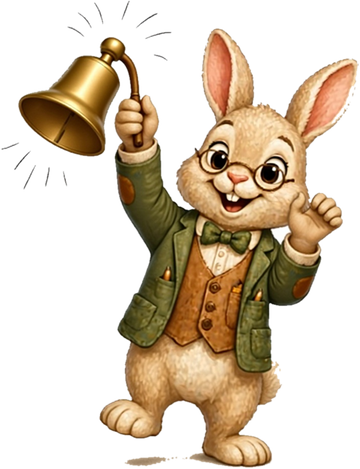
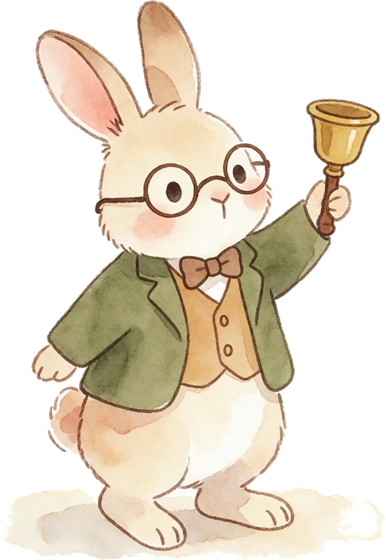
Redraw the edge characters in one watercolour style
The fourteen edge illustrations came from mixed sources and did not read as
one cast: two different turkeys, three different storks, a different fur
treatment on the bear in every scene. All fourteen are regenerated through
Artistly in the approved storybook watercolour style, from the Kaf Dağı Köyü
character canon (the bear's blue evil-eye medallion and goggles, the stork's
brimmed straw hat and blue-strapped khaki apron, the hen's coral apron, the
beaver's layered dungarees and tool belt).

Backgrounds are stripped with the conservative edge-connected flood fill only.
A looser brightness threshold was tried to also remove the ground-shadow wash
and had to be abandoned: the cream rabbit, the white stork and the speckled
hen sit at the same brightness as the paper, and their bodies came back full
of holes. The faint shadow that stays attached to the feet is invisible at the
124px the page renders them at.

The --k size multipliers are recomputed from the new ink areas, over the
fourteen in use — the unused leftovers still in the repo would skew the median.
Verified at 1366 and 1920: no text collision, no horizontal overflow.

Claude-Session: https://claude.ai/code/session_01MGLSLrmtckx3JqW12WLXoG

diff --git a/eski-tasarim.html b/eski-tasarim.html
@@ -11,7 +11,7 @@
     <link href="https://fonts.googleapis.com/css2?family=Nunito:wght@400;600;700;800;900&family=Baloo+2:wght@400;500;600;700;800&display=swap" rel="stylesheet">
     <link href="https://fonts.cdnfonts.com/css/scrambled-tofu" rel="stylesheet">
     <link rel="stylesheet" href="https://cdnjs.cloudflare.com/ajax/libs/font-awesome/6.5.1/css/all.min.css">
-    <link rel="stylesheet" href="eski-tasarim.css?v=82">
+    <link rel="stylesheet" href="eski-tasarim.css?v=83">
 </head>
 <body>
 
@@ -295,8 +295,8 @@
 </section>
 
 <section id="ozellikler">
-    <img src="kahraman-ayi-kova.png?v=1" alt="" aria-hidden="true" class="kahraman kahraman-sag kahraman-y" style="--ky: 13" loading="lazy">
-    <img src="kahraman-hindi.png?v=1" data-giris="zipla" alt="" aria-hidden="true" class="kahraman kahraman-sol" loading="lazy">
+    <img src="kahraman-ayi-kova.png?v=2" alt="" aria-hidden="true" class="kahraman kahraman-sag kahraman-y" style="--ky: 13" loading="lazy">
+    <img src="kahraman-hindi.png?v=2" data-giris="zipla" alt="" aria-hidden="true" class="kahraman kahraman-sol" loading="lazy">
     <div class="container">
         <h2 class="section-title fade-in">Özellikler</h2>
         <p class="section-subtitle fade-in">Türkiye'nin ilk ve tek tam yapılandırılmış İlk Okuma-Yazma Öğretimine hoş geldin! Kelime oyunlarını seviyorsan, öğrenirken gelişmek ve ömür boyu kullanacağın bilişsel yetenekler kazanmak istiyorsan doğru yerdesin! İşte seni bekleyen harika özellikler.</p>
@@ -352,8 +352,8 @@
 
 <!-- GAMES -->
 <section id="oyunlar">
-    <img src="kahraman-sepet-dersi.png?v=1" alt="" aria-hidden="true" class="kahraman kahraman-sag kahraman-y" style="--ky: 33" loading="lazy">
-    <img src="kahraman-tavsan-zil.png?v=1" data-giris="zipla" alt="" aria-hidden="true" class="kahraman kahraman-sol kahraman-y" style="--ky: 72" loading="lazy">
+    <img src="kahraman-sepet-dersi.png?v=2" alt="" aria-hidden="true" class="kahraman kahraman-sag kahraman-y" style="--ky: 33" loading="lazy">
+    <img src="kahraman-tavsan-zil.png?v=2" data-giris="zipla" alt="" aria-hidden="true" class="kahraman kahraman-sol kahraman-y" style="--ky: 72" loading="lazy">
     <div class="container">
         <h2 class="section-title fade-in">Oyunlarımız</h2>
         <p class="section-subtitle fade-in">Platformumuzda seni bekleyen birbirinden eğlenceli kelime oyunlarını keşfet!</p>
@@ -490,8 +490,8 @@
 
 <!-- HOW TO PLAY -->
 <section id="nasil-oynanir">
-    <img src="kahraman-ayi-semsiye.png?v=1" data-giris="zipla" alt="" aria-hidden="true" class="kahraman kahraman-sag kahraman-y" style="--ky: 20" loading="lazy">
-    <img src="kahraman-kunduz-rende.png?v=1" alt="" aria-hidden="true" class="kahraman kahraman-sol" loading="lazy">
+    <img src="kahraman-ayi-semsiye.png?v=2" data-giris="zipla" alt="" aria-hidden="true" class="kahraman kahraman-sag kahraman-y" style="--ky: 20" loading="lazy">
+    <img src="kahraman-kunduz-rende.png?v=2" alt="" aria-hidden="true" class="kahraman kahraman-sol" loading="lazy">
     <div class="container">
         <h2 class="section-title fade-in">Sistem Nasıl Çalışır?</h2>
         <p class="section-subtitle fade-in">Dört kolay adımda eğlenceye katıl!</p>
@@ -637,7 +637,7 @@
 
 <!-- TESTIMONIALS -->
 <section id="yorumlar">
-    <img src="kahraman-leylek-tezgah.png?v=1" data-giris="zipla" alt="" aria-hidden="true" class="kahraman kahraman-sag kahraman-y" style="--ky: 63" loading="lazy">
+    <img src="kahraman-leylek-tezgah.png?v=2" data-giris="zipla" alt="" aria-hidden="true" class="kahraman kahraman-sag kahraman-y" style="--ky: 63" loading="lazy">
     <div class="container">
         <h2 class="section-title fade-in">Kullanıcılarımız Ne Diyor?</h2>
         <p class="section-subtitle fade-in">Milyonlarca mutlu kullanıcıdan bazıları...</p>
@@ -718,9 +718,9 @@
 
 <!-- SUNUM / PRESENTATION -->
 <section id="sunum">
-    <img src="kahraman-hindi-isaret.png?v=1" alt="" aria-hidden="true" class="kahraman kahraman-sol kahraman-y" style="--ky: 6" loading="lazy">
-    <img src="kahraman-ayi-sal.png?v=1" data-giris="zipla" alt="" aria-hidden="true" class="kahraman kahraman-sag kahraman-y" style="--ky: 40" loading="lazy">
-    <img src="kahraman-tavuk-sepet.png?v=1" data-giris="zipla" alt="" aria-hidden="true" class="kahraman kahraman-sol kahraman-y" style="--ky: 74" loading="lazy">
+    <img src="kahraman-hindi-isaret.png?v=2" alt="" aria-hidden="true" class="kahraman kahraman-sol kahraman-y" style="--ky: 6" loading="lazy">
+    <img src="kahraman-ayi-sal.png?v=2" data-giris="zipla" alt="" aria-hidden="true" class="kahraman kahraman-sag kahraman-y" style="--ky: 40" loading="lazy">
+    <img src="kahraman-tavuk-sepet.png?v=2" data-giris="zipla" alt="" aria-hidden="true" class="kahraman kahraman-sol kahraman-y" style="--ky: 74" loading="lazy">
     <div class="container">
         <h2 class="section-title fade-in">Arkadaşım Kelimeler</h2>
         <p class="section-subtitle fade-in">Yapay Zeka ve Nörobilim ile İlk Okuma Yazmayı Yeniden Tanımlıyoruz</p>
@@ -887,9 +887,9 @@
 
 <!-- ACADEMIC -->
 <section id="akademik">
-    <img src="kahraman-leylek-ayi.png?v=1" alt="" aria-hidden="true" class="kahraman kahraman-sag kahraman-y" style="--ky: 8" loading="lazy">
-    <img src="kahraman-baykus-kitap.png?v=1" data-giris="zipla" alt="" aria-hidden="true" class="kahraman kahraman-sol kahraman-y" style="--ky: 41" loading="lazy">
-    <img src="kahraman-leylek-sepet.png?v=1" data-giris="zipla" alt="" aria-hidden="true" class="kahraman kahraman-sag kahraman-y" style="--ky: 75" loading="lazy">
+    <img src="kahraman-leylek-ayi.png?v=2" alt="" aria-hidden="true" class="kahraman kahraman-sag kahraman-y" style="--ky: 8" loading="lazy">
+    <img src="kahraman-baykus-kitap.png?v=2" data-giris="zipla" alt="" aria-hidden="true" class="kahraman kahraman-sol kahraman-y" style="--ky: 41" loading="lazy">
+    <img src="kahraman-leylek-sepet.png?v=2" data-giris="zipla" alt="" aria-hidden="true" class="kahraman kahraman-sag kahraman-y" style="--ky: 75" loading="lazy">
     <div class="container">
         <h2 class="section-title fade-in">Bilimsel Temel</h2>
         <p class="section-subtitle fade-in">İlk Okuma Yazma: Bir Çocuğun Eğitim Hayatındaki En Kritik Eşik</p>
@@ -1161,7 +1161,7 @@
 
 <!-- CTA -->
 <section id="indir">
-    <img src="kahraman-kunduz-sepet.png?v=1" alt="" aria-hidden="true" class="kahraman kahraman-sol" loading="lazy">
+    <img src="kahraman-kunduz-sepet.png?v=2" alt="" aria-hidden="true" class="kahraman kahraman-sol" loading="lazy">
     <div class="container fade-in">
         <h2 class="brand-name">Hemen İndir, Eğlenceye Katıl!</h2>
         <p>Milyonlarca oyuncunun arasına katıl ve kelimelerin büyülü dünyasını keşfet. Ücretsiz!</p>

diff --git a/index.html b/index.html
@@ -11,7 +11,7 @@
     <link href="https://fonts.googleapis.com/css2?family=Nunito:wght@400;600;700;800;900&family=Baloo+2:wght@400;500;600;700;800&display=swap" rel="stylesheet">
     <link href="https://fonts.cdnfonts.com/css/scrambled-tofu" rel="stylesheet">
     <link rel="stylesheet" href="https://cdnjs.cloudflare.com/ajax/libs/font-awesome/6.5.1/css/all.min.css">
-    <link rel="stylesheet" href="style.css?v=89">
+    <link rel="stylesheet" href="style.css?v=90">
 </head>
 <body>
 
@@ -295,8 +295,8 @@
 </section>
 
 <section id="ozellikler">
-    <img src="kahraman-ayi-kova.png?v=1" alt="" aria-hidden="true" class="kahraman kahraman-sag kahraman-y" style="--ky: 13" loading="lazy">
-    <img src="kahraman-hindi.png?v=1" data-giris="zipla" alt="" aria-hidden="true" class="kahraman kahraman-sol" loading="lazy">
+    <img src="kahraman-ayi-kova.png?v=2" alt="" aria-hidden="true" class="kahraman kahraman-sag kahraman-y" style="--ky: 13" loading="lazy">
+    <img src="kahraman-hindi.png?v=2" data-giris="zipla" alt="" aria-hidden="true" class="kahraman kahraman-sol" loading="lazy">
     <div class="container">
         <h2 class="section-title fade-in">Özellikler</h2>
         <p class="section-subtitle fade-in">Türkiye'nin ilk ve tek tam yapılandırılmış İlk Okuma-Yazma Öğretimine hoş geldin! Kelime oyunlarını seviyorsan, öğrenirken gelişmek ve ömür boyu kullanacağın bilişsel yetenekler kazanmak istiyorsan doğru yerdesin! İşte seni bekleyen harika özellikler.</p>
@@ -352,8 +352,8 @@
 
 <!-- GAMES -->
 <section id="oyunlar">
-    <img src="kahraman-sepet-dersi.png?v=1" alt="" aria-hidden="true" class="kahraman kahraman-sag kahraman-y" style="--ky: 33" loading="lazy">
-    <img src="kahraman-tavsan-zil.png?v=1" data-giris="zipla" alt="" aria-hidden="true" class="kahraman kahraman-sol kahraman-y" style="--ky: 72" loading="lazy">
+    <img src="kahraman-sepet-dersi.png?v=2" alt="" aria-hidden="true" class="kahraman kahraman-sag kahraman-y" style="--ky: 33" loading="lazy">
+    <img src="kahraman-tavsan-zil.png?v=2" data-giris="zipla" alt="" aria-hidden="true" class="kahraman kahraman-sol kahraman-y" style="--ky: 72" loading="lazy">
     <div class="container">
         <h2 class="section-title fade-in">Oyunlarımız</h2>
         <p class="section-subtitle fade-in">Platformumuzda seni bekleyen birbirinden eğlenceli kelime oyunlarını keşfet!</p>
@@ -490,8 +490,8 @@
 
 <!-- HOW TO PLAY -->
 <section id="nasil-oynanir">
-    <img src="kahraman-ayi-semsiye.png?v=1" data-giris="zipla" alt="" aria-hidden="true" class="kahraman kahraman-sag kahraman-y" style="--ky: 20" loading="lazy">
-    <img src="kahraman-kunduz-rende.png?v=1" alt="" aria-hidden="true" class="kahraman kahraman-sol" loading="lazy">
+    <img src="kahraman-ayi-semsiye.png?v=2" data-giris="zipla" alt="" aria-hidden="true" class="kahraman kahraman-sag kahraman-y" style="--ky: 20" loading="lazy">
+    <img src="kahraman-kunduz-rende.png?v=2" alt="" aria-hidden="true" class="kahraman kahraman-sol" loading="lazy">
     <div class="container">
         <h2 class="section-title fade-in">Sistem Nasıl Çalışır?</h2>
         <p class="section-subtitle fade-in">Dört kolay adımda eğlenceye katıl!</p>
@@ -637,7 +637,7 @@
 
 <!-- TESTIMONIALS -->
 <section id="yorumlar">
-    <img src="kahraman-leylek-tezgah.png?v=1" data-giris="zipla" alt="" aria-hidden="true" class="kahraman kahraman-sag kahraman-y" style="--ky: 63" loading="lazy">
+    <img src="kahraman-leylek-tezgah.png?v=2" data-giris="zipla" alt="" aria-hidden="true" class="kahraman kahraman-sag kahraman-y" style="--ky: 63" loading="lazy">
     <div class="container">
         <h2 class="section-title fade-in">Kullanıcılarımız Ne Diyor?</h2>
         <p class="section-subtitle fade-in">Milyonlarca mutlu kullanıcıdan bazıları...</p>
@@ -718,9 +718,9 @@
 
 <!-- SUNUM / PRESENTATION -->
 <section id="sunum">
-    <img src="kahraman-hindi-isaret.png?v=1" alt="" aria-hidden="true" class="kahraman kahraman-sol kahraman-y" style="--ky: 6" loading="lazy">
-    <img src="kahraman-ayi-sal.png?v=1" data-giris="zipla" alt="" aria-hidden="true" class="kahraman kahraman-sag kahraman-y" style="--ky: 40" loading="lazy">
-    <img src="kahraman-tavuk-sepet.png?v=1" data-giris="zipla" alt="" aria-hidden="true" class="kahraman kahraman-sol kahraman-y" style="--ky: 74" loading="lazy">
+    <img src="kahraman-hindi-isaret.png?v=2" alt="" aria-hidden="true" class="kahraman kahraman-sol kahraman-y" style="--ky: 6" loading="lazy">
+    <img src="kahraman-ayi-sal.png?v=2" data-giris="zipla" alt="" aria-hidden="true" class="kahraman kahraman-sag kahraman-y" style="--ky: 40" loading="lazy">
+    <img src="kahraman-tavuk-sepet.png?v=2" data-giris="zipla" alt="" aria-hidden="true" class="kahraman kahraman-sol kahraman-y" style="--ky: 74" loading="lazy">
     <div class="container">
         <h2 class="section-title fade-in">Arkadaşım Kelimeler</h2>
         <p class="section-subtitle fade-in">Yapay Zeka ve Nörobilim ile İlk Okuma Yazmayı Yeniden Tanımlıyoruz</p>
@@ -887,9 +887,9 @@
 
 <!-- ACADEMIC -->
 <section id="akademik">
-    <img src="kahraman-leylek-ayi.png?v=1" alt="" aria-hidden="true" class="kahraman kahraman-sag kahraman-y" style="--ky: 8" loading="lazy">
-    <img src="kahraman-baykus-kitap.png?v=1" data-giris="zipla" alt="" aria-hidden="true" class="kahraman kahraman-sol kahraman-y" style="--ky: 41" loading="lazy">
-    <img src="kahraman-leylek-sepet.png?v=1" data-giris="zipla" alt="" aria-hidden="true" class="kahraman kahraman-sag kahraman-y" style="--ky: 75" loading="lazy">
+    <img src="kahraman-leylek-ayi.png?v=2" alt="" aria-hidden="true" class="kahraman kahraman-sag kahraman-y" style="--ky: 8" loading="lazy">
+    <img src="kahraman-baykus-kitap.png?v=2" data-giris="zipla" alt="" aria-hidden="true" class="kahraman kahraman-sol kahraman-y" style="--ky: 41" loading="lazy">
+    <img src="kahraman-leylek-sepet.png?v=2" data-giris="zipla" alt="" aria-hidden="true" class="kahraman kahraman-sag kahraman-y" style="--ky: 75" loading="lazy">
     <div class="container">
         <h2 class="section-title fade-in">Bilimsel Temel</h2>
         <p class="section-subtitle fade-in">İlk Okuma Yazma: Bir Çocuğun Eğitim Hayatındaki En Kritik Eşik</p>
@@ -1161,7 +1161,7 @@
 
 <!-- CTA -->
 <section id="indir">
-    <img src="kahraman-kunduz-sepet.png?v=1" alt="" aria-hidden="true" class="kahraman kahraman-sol" loading="lazy">
+    <img src="kahraman-kunduz-sepet.png?v=2" alt="" aria-hidden="true" class="kahraman kahraman-sol" loading="lazy">
     <div class="container fade-in">
         <h2 class="brand-name">Hemen İndir, Eğlenceye Katıl!</h2>
         <p>Milyonlarca oyuncunun arasına katıl ve kelimelerin büyülü dünyasını keşfet. Ücretsiz!</p>

diff --git a/eski-tasarim.css b/eski-tasarim.css
@@ -2134,20 +2134,20 @@ section > .container,
    character carries a multiplier that evens out its *inked* area: the count
    of non-transparent pixels, scaled to the median. Measured per file, not
    eyeballed. */
-.kahraman[src*="kahraman-leylek-ayi.png"]        { --k: 1.23; }
+.kahraman[src*="kahraman-leylek-ayi.png"]        { --k: 1.05; }
 .kahraman[src*="kahraman-hindi-isaret"]          { --k: 1.08; }
-.kahraman[src*="kahraman-sepet-dersi"]           { --k: 1.07; }
+.kahraman[src*="kahraman-sepet-dersi"]           { --k: 1.09; }
 .kahraman[src*="kahraman-kunduz-rende"]          { --k: 1.05; }
-.kahraman[src*="kahraman-tavuk-sepet"]           { --k: 1.02; }
-.kahraman[src*="kahraman-tavsan-zil"]            { --k: 1.01; }
-.kahraman[src*="kahraman-ayi-sal"]               { --k: 1.00; }
-.kahraman[src*="kahraman-kunduz-sepet"]          { --k: 0.95; }
-.kahraman[src*="kahraman-ayi-kova"]              { --k: 0.94; }
-.kahraman[src*="kahraman-ayi-semsiye"]           { --k: 0.89; }
-.kahraman[src*="kahraman-leylek-sepet"]          { --k: 0.88; }
-.kahraman[src*="kahraman-hindi.png"]             { --k: 0.87; }
-.kahraman[src*="kahraman-leylek-tezgah"]         { --k: 0.81; }
-.kahraman[src*="kahraman-baykus-kitap"]          { --k: 0.80; }
+.kahraman[src*="kahraman-tavuk-sepet"]           { --k: 0.98; }
+.kahraman[src*="kahraman-tavsan-zil"]            { --k: 0.83; }
+.kahraman[src*="kahraman-ayi-sal"]               { --k: 1.17; }
+.kahraman[src*="kahraman-kunduz-sepet"]          { --k: 1.04; }
+.kahraman[src*="kahraman-ayi-kova"]              { --k: 0.86; }
+.kahraman[src*="kahraman-ayi-semsiye"]           { --k: 1.02; }
+.kahraman[src*="kahraman-leylek-sepet"]          { --k: 0.77; }
+.kahraman[src*="kahraman-hindi.png"]             { --k: 0.85; }
+.kahraman[src*="kahraman-leylek-tezgah"]         { --k: 0.86; }
+.kahraman[src*="kahraman-baykus-kitap"]          { --k: 0.79; }
 
 
 

diff --git a/style.css b/style.css
@@ -2134,20 +2134,20 @@ section > .container,
    character carries a multiplier that evens out its *inked* area: the count
    of non-transparent pixels, scaled to the median. Measured per file, not
    eyeballed. */
-.kahraman[src*="kahraman-leylek-ayi.png"]        { --k: 1.23; }
+.kahraman[src*="kahraman-leylek-ayi.png"]        { --k: 1.05; }
 .kahraman[src*="kahraman-hindi-isaret"]          { --k: 1.08; }
-.kahraman[src*="kahraman-sepet-dersi"]           { --k: 1.07; }
+.kahraman[src*="kahraman-sepet-dersi"]           { --k: 1.09; }
 .kahraman[src*="kahraman-kunduz-rende"]          { --k: 1.05; }
-.kahraman[src*="kahraman-tavuk-sepet"]           { --k: 1.02; }
-.kahraman[src*="kahraman-tavsan-zil"]            { --k: 1.01; }
-.kahraman[src*="kahraman-ayi-sal"]               { --k: 1.00; }
-.kahraman[src*="kahraman-kunduz-sepet"]          { --k: 0.95; }
-.kahraman[src*="kahraman-ayi-kova"]              { --k: 0.94; }
-.kahraman[src*="kahraman-ayi-semsiye"]           { --k: 0.89; }
-.kahraman[src*="kahraman-leylek-sepet"]          { --k: 0.88; }
-.kahraman[src*="kahraman-hindi.png"]             { --k: 0.87; }
-.kahraman[src*="kahraman-leylek-tezgah"]         { --k: 0.81; }
-.kahraman[src*="kahraman-baykus-kitap"]          { --k: 0.80; }
+.kahraman[src*="kahraman-tavuk-sepet"]           { --k: 0.98; }
+.kahraman[src*="kahraman-tavsan-zil"]            { --k: 0.83; }
+.kahraman[src*="kahraman-ayi-sal"]               { --k: 1.17; }
+.kahraman[src*="kahraman-kunduz-sepet"]          { --k: 1.04; }
+.kahraman[src*="kahraman-ayi-kova"]              { --k: 0.86; }
+.kahraman[src*="kahraman-ayi-semsiye"]           { --k: 1.02; }
+.kahraman[src*="kahraman-leylek-sepet"]          { --k: 0.77; }
+.kahraman[src*="kahraman-hindi.png"]             { --k: 0.85; }
+.kahraman[src*="kahraman-leylek-tezgah"]         { --k: 0.86; }
+.kahraman[src*="kahraman-baykus-kitap"]          { --k: 0.79; }
 
 
 
